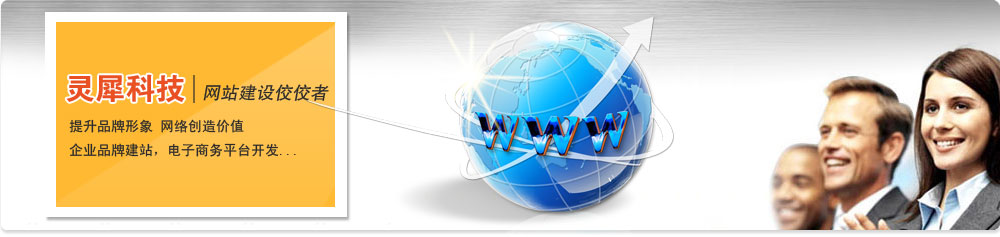
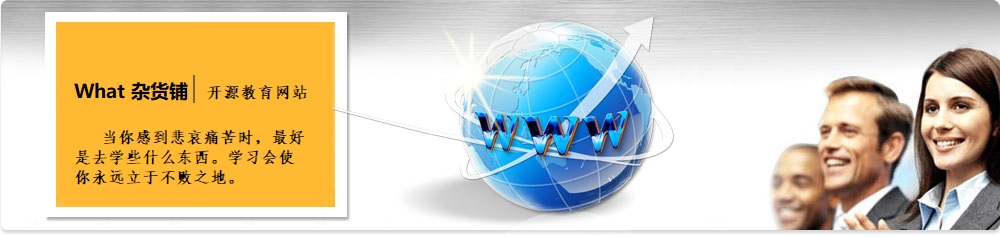
Signed-off-by: unknown <598987781@qq.com>

diff --git a/index.html b/index.html
@@ -2,7 +2,7 @@
 <html lang="en">
 <head>
     <meta charset="UTF-8">
-    <title>首页实战</title>
+    <title>What杂货铺</title>
     <link rel="stylesheet" href="reset.css">
     <link rel="stylesheet" href="total.css">
 </head>
@@ -11,13 +11,14 @@
         <div id="header">
             <img src="image/logo.jpg" alt="logo" id="logo">
             <ul id="nav">
-                <li><a href="#">导航1</a></li>
-                <li><a href="#">导航2</a></li>
-                <li><a href="#">导航3</a></li>
-                <li><a href="#">导航4</a></li>
-                <li><a href="#">导航5</a></li>
-                <li><a href="#">导航6</a></li>
-                <li><a href="#">导航7</a></li>
+                <li><a href="web.html" target="_blank">网页基础</a></li>
+                <li><a href="python.html" target="_blank">Python</a></li>
+                <li><a href="java.html" target="_blank">Java</a></li>
+                <li><a href="c++.html" target="_blank">C++</a></li>
+                <li><a href="machine_learn.html" target="_blank">机器学习</a></li>
+                <li><a href="data_structure.html" target="_blank">数据结构</a></li>
+                <li><a href="algorithm.html" target="_blank">算法乐园</a></li>
+                <li><a href="https://github.com/POGE0124" target="_blank">实战Git</a></li>
             </ul>
         </div>
         <img src="image/about_banner.jpg" alt="" id="banner">
@@ -30,61 +31,61 @@
                 </div>
                 <div class="four">
                     <h2>Python教程</h2>
-                    <img src="image/eshop_service.jpg" alt="">
+                    <img src="image/python.jpg" alt="">
                     <ul>
-                        <li><a href="#">方便管理1</a></li>
-                        <li><a href="#">方便管理2</a></li>
-                        <li><a href="#">方便管理3</a></li>
-                        <li><a href="#">方便管理4</a></li>
-                        <li><a href="#">方便管理5</a></li>
+                        <li><a href="#">python入门</a></li>
+                        <li><a href="#">python基础</a></li>
+                        <li><a href="#">python进阶</a></li>
+                        <li><a href="#">常用库</a></li>
+                        <li><a href="#">项目实战</a></li>
                     </ul>
                 </div>
                 <div class="four">
                     <h2>机器学习</h2>
-                    <img src="image/eshop_service.jpg" alt="">
+                    <img src="image/machinelearning.jpg" alt="">
                     <ul>
-                        <li><a href="#">方便管理1</a></li>
-                        <li><a href="#">方便管理2</a></li>
-                        <li><a href="#">方便管理3</a></li>
-                        <li><a href="#">方便管理4</a></li>
-                        <li><a href="#">方便管理5</a></li>
+                        <li><a href="#">机器学习入门</a></li>
+                        <li><a href="#">机器学习基础</a></li>
+                        <li><a href="#">机器学习进阶</a></li>
+                        <li><a href="#">常用方法</a></li>
+                        <li><a href="#">实战演练</a></li>
                     </ul>
                 </div>
                 <div class="four">
                     <h2>数据结构</h2>
-                    <img src="image/eshop_service.jpg" alt="">
+                    <img src="image/data_structure.jpg" alt="">
                     <ul>
-                        <li><a href="#">方便管理1</a></li>
-                        <li><a href="#">方便管理2</a></li>
-                        <li><a href="#">方便管理3</a></li>
-                        <li><a href="#">方便管理4</a></li>
-                        <li><a href="#">方便管理5</a></li>
+                        <li><a href="#">数据结构入门</a></li>
+                        <li><a href="#">数据结构基础</a></li>
+                        <li><a href="#">数据结构进阶</a></li>
+                        <li><a href="#">常见问题</a></li>
+                        <li><a href="#">实战演练</a></li>
                     </ul>
                 </div>
                 <div class="four">
                     <h2>Java教程</h2>
-                    <img src="image/eshop_service.jpg" alt="">
+                    <img src="image/java.jpg" alt="java">
                     <ul>
-                        <li><a href="#">方便管理1</a></li>
-                        <li><a href="#">方便管理2</a></li>
-                        <li><a href="#">方便管理3</a></li>
-                        <li><a href="#">方便管理4</a></li>
-                        <li><a href="#">方便管理5</a></li>
+                        <li><a href="#">Java入门</a></li>
+                        <li><a href="#">Java基础</a></li>
+                        <li><a href="#">Java进阶</a></li>
+                        <li><a href="#">常见问题</a></li>
+                        <li><a href="#">实战演练</a></li>
                     </ul>
                 </div>
             </div>
             <div id="rside">
                 <div class="subtitle">
                     <img src="image/circle.gif" alt="">
-                    <h1>文章观点</h1>
+                    <h1>经典文章导读</h1>
                     <a href="#">MORE&gt&gt</a>
                 </div>
                 <ul id="art">
-                    <li><a href="#">这是一篇好文章1</a></li>
-                    <li><a href="#">这是一篇好文章2</a></li>
-                    <li><a href="#">这是一篇好文章3</a></li>
-                    <li><a href="#">这是一篇好文章4</a></li>
-                    <li><a href="#">这是一篇好文章5</a></li>
+                    <li><a href="#">python</a></li>
+                    <li><a href="#">Java</a></li>
+                    <li><a href="#">机器学习</a></li>
+                    <li><a href="#">c++</a></li>
+                    <li><a href="#">数据结构</a></li>
                 </ul>
                 <div class="subtitle">
                     <img src="image/circle.gif" alt="">
@@ -92,6 +93,17 @@
                     <a href="#">MORE&gt&gt</a>
                 </div>
                 <div id="contact">
+                    <div id="myphoto">
+                        <img src="image/my.jpg" alt="myphoto">
+                    </div>
+                    <div class="clr"></div>
+                    <div id ="myinfo">
+                        <p>我的邮箱：<a href="https://mail.163.com/"style="text-decoration:none"target="blank">hupo4210@163.com</a>
+                            <br/>我的电话：18317857809
+                            <br/>毕业学校：<a href="http://www.henu.edu.cn/"style="text-decoration:none"target="blank">河南大学</a>
+                            <br/>研究方向：<a href="https://baike.baidu.com/item/%E6%9C%BA%E5%99%A8%E5%AD%A6%E4%B9%A0/217599?fr=aladdin"style="text-decoration:none"target="blank">机器学习</a>
+                            <a href="https://baike.baidu.com/item/%E6%95%85%E9%9A%9C%E8%AF%8A%E6%96%AD/5928542?fr=aladdin"style="text-decoration:none"target="blank">故障诊断</a></p>
+                    </div>
 
                 </div>
             </div>
@@ -99,13 +111,13 @@
         </div>
         <div id="footer">
             <ul>
-                <li><a href="">联系我们1</a></li>
-                <li><a href="">联系我们2</a></li>
-                <li><a href="">联系我们3</a></li>
-                <li><a href="">联系我们4</a></li>
-                <li><a href="">联系我们5</a></li>
-                <li><a href="">联系我们6</a></li>
-                <li><a href="">联系我们7</a></li>
+                <li><a href="">资料下载</a></li>
+                <li><a href="">合作伙伴</a></li>
+                <li><a href="">友情链接</a></li>
+                <li><a href="">在线咨询</a></li>
+                <li><a href="">技术支持</a></li>
+                <li><a href="">关于我们</a></li>
+                <li><a href="">赞助</a></li>
             </ul>
             <br>
             <address>&copy;2018-2019 hupo 版权所有 http:www.pogetech.com</address>

diff --git a/machine_learn.html b/machine_learn.html
@@ -1,0 +1,20 @@
+<!DOCTYPE html>
+<html lang="en">
+<head>
+    <meta charset="UTF-8">
+    <title>MachineLearning</title>
+    <style>
+        div{
+            position: center;
+            margin-left: 250px;
+            margin-top: 250px;
+        }
+    </style>
+</head>
+<body>
+<div>
+    <h1>网站正在更新，敬请谅解,请到<a href="https://morvanzhou.github.io/tutorials/machine-learning/">莫烦机器学习</a>学习更多。</h1>
+</div>
+
+</body>
+</html>

diff --git a/c++.html b/c++.html
@@ -1,0 +1,20 @@
+<!DOCTYPE html>
+<html lang="en">
+<head>
+    <meta charset="UTF-8">
+    <title>C++教程</title>
+    <style>
+        div{
+            position: center;
+            margin-left: 250px;
+            margin-top: 250px;
+        }
+    </style>
+</head>
+<body>
+<div>
+    <h1>网站正在更新，敬请谅解,请到<a href="http://www.runoob.com/cplusplus/cpp-tutorial.html">c++菜鸟教程</a>学习更多。</h1>
+</div>
+
+</body>
+</html>

diff --git a/java.html b/java.html
@@ -1,0 +1,20 @@
+<!DOCTYPE html>
+<html lang="en">
+<head>
+    <meta charset="UTF-8">
+    <title>Java教程</title>
+    <style>
+        div{
+            position: center;
+            margin-left: 250px;
+            margin-top: 250px;
+        }
+    </style>
+</head>
+<body>
+<div>
+    <h1>网站正在更新，敬请谅解,请到<a href="http://www.runoob.com/java/java-tutorial.html">java菜鸟教程</a>学习更多。</h1>
+</div>
+
+</body>
+</html>

diff --git a/data_structure.html b/data_structure.html
@@ -1,0 +1,20 @@
+<!DOCTYPE html>
+<html lang="en">
+<head>
+    <meta charset="UTF-8">
+    <title>Python教程</title>
+    <style>
+        div{
+            position: center;
+            margin-left: 250px;
+            margin-top: 250px;
+        }
+    </style>
+</head>
+<body>
+<div>
+    <h1>网站正在更新，敬请谅解,请到<a href="http://www.51zixue.net/shujujiegou/">数据结构自学网</a>学习更多。</h1>
+</div>
+
+</body>
+</html>

diff --git a/web.html b/web.html
@@ -1,0 +1,20 @@
+<!DOCTYPE html>
+<html lang="en">
+<head>
+    <meta charset="UTF-8">
+    <title>网页基础</title>
+    <style>
+        div{
+            position: center;
+            margin-left: 250px;
+            margin-top: 250px;
+        }
+    </style>
+</head>
+<body>
+    <div>
+        <h1>网站正在更新，敬请谅解,请到<a href="http://www.w3school.com.cn/">w3c官网</a>学习更多。</h1>
+    </div>
+
+</body>
+</html>

diff --git a/python.html b/python.html
@@ -1,0 +1,20 @@
+<!DOCTYPE html>
+<html lang="en">
+<head>
+    <meta charset="UTF-8">
+    <title>Python教程</title>
+    <style>
+        div{
+            position: center;
+            margin-left: 250px;
+            margin-top: 250px;
+        }
+    </style>
+</head>
+<body>
+<div>
+    <h1>网站正在更新，敬请谅解,请到<a href="https://morvanzhou.github.io/">莫烦Python</a>学习更多。</h1>
+</div>
+
+</body>
+</html>

diff --git a/algorithm.html b/algorithm.html
@@ -1,0 +1,20 @@
+<!DOCTYPE html>
+<html lang="en">
+<head>
+    <meta charset="UTF-8">
+    <title>算法乐园</title>
+    <style>
+        div{
+            position: center;
+            margin-left: 250px;
+            margin-top: 250px;
+        }
+    </style>
+</head>
+<body>
+<div>
+    <h1>网站正在更新，敬请谅解,请到<a href="https://www.nowcoder.com/">牛客网</a>学习更多。</h1>
+</div>
+
+</body>
+</html>

diff --git a/total.css b/total.css
@@ -80,6 +80,7 @@
 }
 .four ul{
     float: left;
+    margin-top: 15px;
     margin-left: 6px;
 }
 .four li{
@@ -127,6 +128,15 @@
     margin-top: 2px;
     height: 250px;
     background: #eee;
+}
+#myphoto{
+    background: #eee;
+    float: left;
+    margin: 5px;
+    padding: 5px;
+}
+#myinfo a:hover{
+    color: #ff832c;
 }
 #footer{
     margin-top: 10px;
